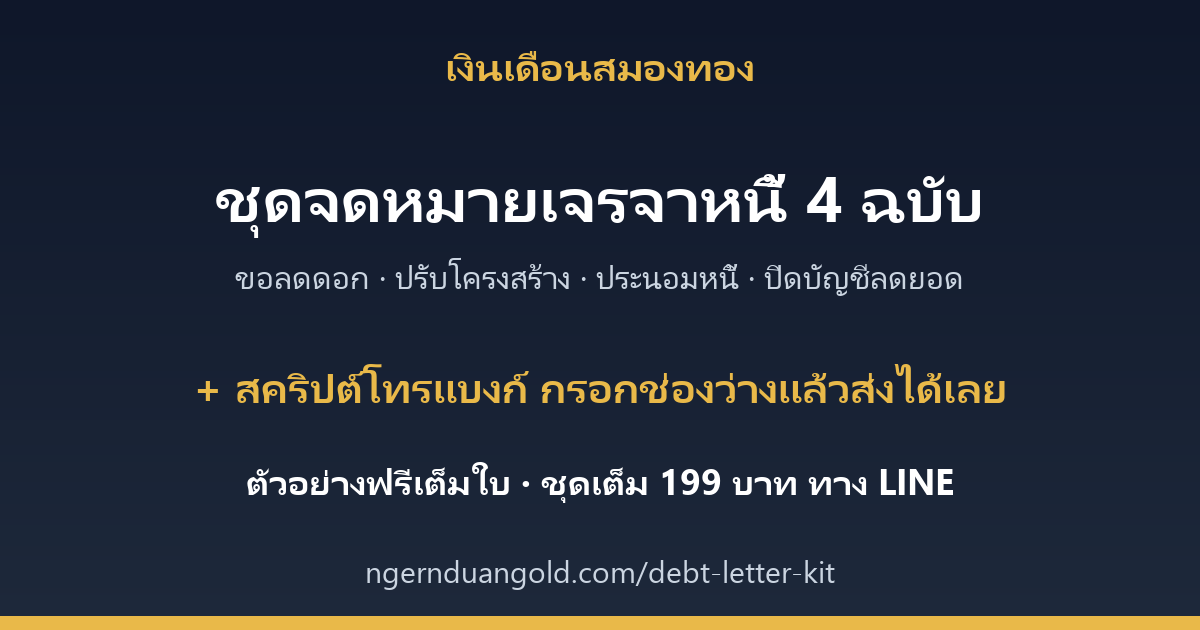
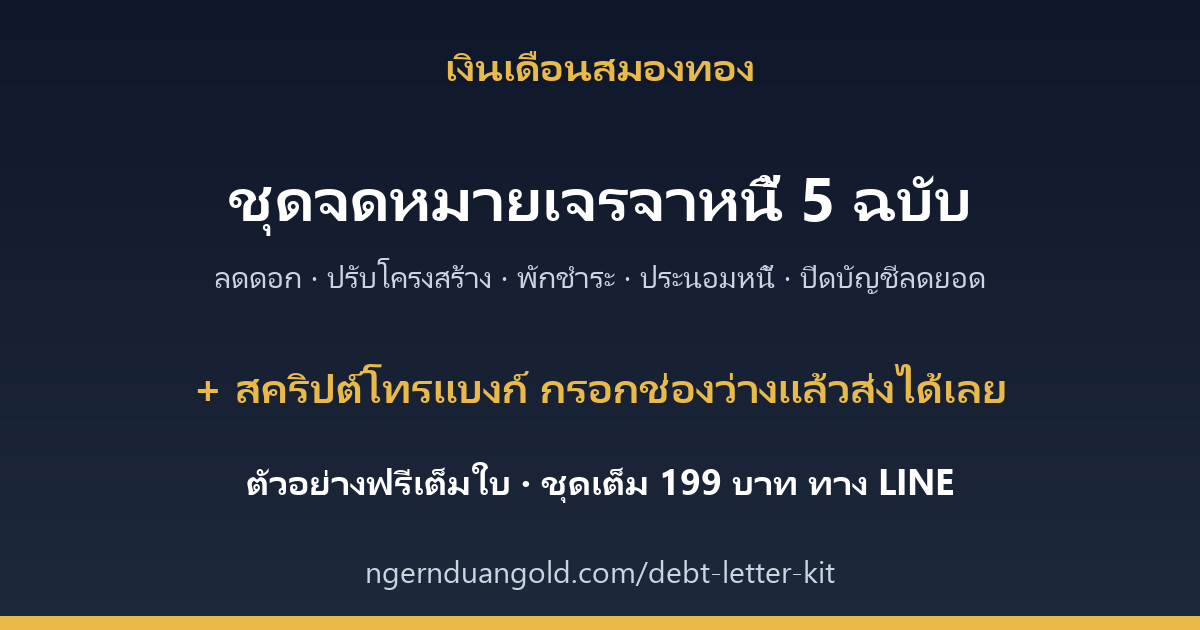
patch: /debt-letter-kit flip -> จดหมาย 5 ฉบับ + สคริปต์ (PDF 10 หน้า, เพิ่มใบพักชำระชั่วคราว) ทุก surface

Changed region(s): [[0.1542, 0.2714, 0.8325, 0.3619], [0.185, 0.4222, 0.8325, 0.4825]]

diff --git a/debt-letter-kit.html b/debt-letter-kit.html
@@ -3,8 +3,8 @@
 <head>
 <meta charset="UTF-8">
 <meta name="viewport" content="width=device-width, initial-scale=1.0">
-<title>ชุดจดหมายเจรจาหนี้ 4 ฉบับ + สคริปต์โทรแบงก์ — ขอลดดอก/ปรับโครงสร้าง/ประนอมหนี้ | เงินเดือนสมองทอง</title>
-<meta name="description" content="จดหมายพร้อมใช้ 4 ฉบับ + สคริปต์โทรแบงก์ กรอกช่องว่างแล้วส่งได้เลย ปรับตามกรณีคุณ — ตัวอย่างฟรี ขอชุดเต็มทาง LINE">
+<title>ชุดจดหมายเจรจาหนี้ 5 ฉบับ + สคริปต์โทรแบงก์ | เงินเดือนสมองทอง</title>
+<meta name="description" content="จดหมายพร้อมใช้ 5 ฉบับ (ลดดอก/ปรับโครงสร้าง/พักชำระ/ประนอมหนี้/ปิดบัญชีลดยอด) + สคริปต์โทรแบงก์ กรอกช่องว่างแล้วส่งได้เลย — ตัวอย่างฟรี ขอชุดเต็มทาง LINE">
 <style>
   :root{
     --gold:#E9B949; --gold-d:#C9A227; --navy:#0F172A; --navy2:#1E293B;
@@ -62,8 +62,8 @@
 <body>
 <header>
   <div class="brand"><a href="/">เงินเดือนสมองทอง</a></div>
-  <h1>จดหมายเจรจาหนี้ 4 ฉบับ + สคริปต์โทร ที่ธนาคารรับฟัง</h1>
-  <p>ขอลดดอก · ปรับโครงสร้าง · ประนอมหนี้ · ปิดบัญชีลดยอด + สคริปต์โทรแบงก์ — กรอกช่องว่างแล้วส่งได้เลย ปรับตามกรณีคุณ</p>
+  <h1>5 จดหมายเจรจาหนี้ + สคริปต์โทร ที่ธนาคารรับฟัง</h1>
+  <p>ขอลดดอก · ปรับโครงสร้าง · พักชำระชั่วคราว · ประนอมหนี้ · ปิดบัญชีลดยอด + สคริปต์โทรแบงก์ — กรอกช่องว่างแล้วส่งได้เลย ปรับตามกรณีคุณ</p>
   <div class="badges">
     <span>🤝 เป็นกลาง — ไม่ขายประกัน/สินเชื่อแฝง</span>
     <span>🏛 อ้างอิงช่องทางช่วยเหลือจริง (คลินิกแก้หนี้ ธปท.)</span>
@@ -86,13 +86,14 @@
   </div>
 
   <div class="card">
-    <h2>ในชุดมีอะไร (PDF 9 หน้า)</h2>
+    <h2>ในชุดมีอะไร (PDF 10 หน้า)</h2>
     <div class="items">
       <div class="item"><span class="ic">1</span><span><b>จดหมายขอลดดอกเบี้ย</b><small>สำหรับคนประวัติจ่ายดี อยากปิดเร็วขึ้น</small></span></div>
-      <div class="item"><span class="ic">2</span><span><b>จดหมายขอปรับโครงสร้างหนี้</b><small>เมื่อค่างวดเริ่มหนักเกินรายได้</small></span></div>
-      <div class="item"><span class="ic">3</span><span><b>จดหมายขอประนอมหนี้/ผ่อนผัน</b><small>เมื่อเริ่มค้างจ่าย ต้องการเสนอเงื่อนไขใหม่</small></span></div>
-      <div class="item"><span class="ic">4</span><span><b>จดหมายขอปิดบัญชีลดยอด (settlement)</b><small>มีเงินก้อนจำกัด อยากจบหนี้</small></span></div>
-      <div class="item"><span class="ic">5</span><span><b>สคริปต์โทรแบงก์</b><small>พูดตามได้ทีละบรรทัด + วิธีรับมือคำถามย้อน</small></span></div>
+      <div class="item"><span class="ic">2</span><span><b>จดหมายขอปรับโครงสร้างหนี้ (ยืดงวด/ลดค่างวด)</b><small>เมื่อค่างวดเริ่มหนักเกินรายได้</small></span></div>
+      <div class="item"><span class="ic">3</span><span><b>จดหมายขอพักชำระชั่วคราว (เหตุจำเป็น/สุดวิสัย)</b><small>รายได้สะดุดกะทันหัน — ขอเวลาหายใจแบบมีหลักฐาน</small></span></div>
+      <div class="item"><span class="ic">4</span><span><b>จดหมายขอประนอมหนี้/ผ่อนผัน (ค้าง/ใกล้ค้าง)</b><small>เมื่อเริ่มค้างจ่าย ต้องการเสนอเงื่อนไขใหม่</small></span></div>
+      <div class="item"><span class="ic">5</span><span><b>จดหมายขอปิดบัญชีลดยอด (settlement)</b><small>มีเงินก้อนจำกัด อยากจบหนี้</small></span></div>
+      <div class="item"><span class="ic">6</span><span><b>สคริปต์โทรแบงก์</b><small>พูดตามได้ทีละบรรทัด + วิธีรับมือคำถามย้อน</small></span></div>
       <div class="item"><span class="ic">+</span><span><b>เคล็ดลับต่อฉบับ · ตารางเลือกใช้ตามสถานะหนี้ · ช่องทางช่วยเหลือจริง</b><small>รวมคลินิกแก้หนี้ (ธปท./SAM) — ของฟรีที่ควรรู้ก่อนจ่ายเงินให้ใคร</small></span></div>
     </div>
   </div>
@@ -112,12 +113,12 @@
 
 ขอแสดงความนับถือ
 [ชื่อ-นามสกุล] · โทร [เบอร์] · วันที่ [.....]</div>
-    <div class="tip"><b>เคล็ดจากในชุด:</b> แนบเหตุผล "อยากปิดเร็วขึ้น" (เจ้าหนี้ชอบ) มากกว่า "ไม่มีจ่าย" · ส่งแล้วโทรตามผลใน 7–14 วัน · ⚠ ฉบับนี้สำหรับคนประวัติจ่ายดี — ถ้าเคยค้างจ่าย อย่าคัดประโยค "ชำระตรงเวลา" ให้ใช้ฉบับที่ 2/3 ในชุดแทน</div>
-    <p style="font-size:13.5px;color:var(--muted);margin:12px 0 0">นี่แค่ 1 ใน 4 — อีก 3 ฉบับ (ปรับโครงสร้าง / ประนอมหนี้ / ปิดบัญชีลดยอด) + สคริปต์โทรแบงก์ เหมาะกับเคสที่หนักขึ้นตามลำดับ</p>
+    <div class="tip"><b>เคล็ดจากในชุด:</b> แนบเหตุผล "อยากปิดเร็วขึ้น" (เจ้าหนี้ชอบ) มากกว่า "ไม่มีจ่าย" · ส่งแล้วโทรตามผลใน 7–14 วัน · ⚠ ฉบับนี้สำหรับคนประวัติจ่ายดี — ถ้าเคยค้างจ่าย อย่าคัดประโยค "ชำระตรงเวลา" ให้ใช้ฉบับที่ 2/4 ในชุดแทน</div>
+    <p style="font-size:13.5px;color:var(--muted);margin:12px 0 0">นี่แค่ 1 ใน 5 — อีก 4 ฉบับ (ปรับโครงสร้าง / พักชำระชั่วคราว / ประนอมหนี้ / ปิดบัญชีลดยอด) + สคริปต์โทรแบงก์ เหมาะกับเคสที่หนักขึ้นตามลำดับ</p>
   </div>
 
   <div class="buy">
-    <h2>ชุดเต็ม: จดหมาย 4 ฉบับ + สคริปต์โทรแบงก์ (PDF 9 หน้า)</h2>
+    <h2>ชุดเต็ม: จดหมาย 5 ฉบับ + สคริปต์โทรแบงก์ (PDF 10 หน้า)</h2>
     <div class="pr">199฿ <small>จ่ายครั้งเดียว</small></div>
     <p>สินค้าของเงินเดือนสมองทองเอง (ไม่ใช่ค่าธรรมเนียมของเจ้าหนี้/หน่วยงานใด) — สั่งทาง LINE โอนพร้อมเพย์ แล้วรับไฟล์ทันที</p>
     <a class="btn btn-line" href="https://line.me/R/ti/p/@804qodya" target="_blank" rel="noopener">💬 รับชุดเต็มทาง LINE @804qodya</a>

diff --git a/build_site.py b/build_site.py
@@ -63,8 +63,8 @@ _TOOL_PAGES = [  # standalone tool/landing pages (root file pristine; copy + hea
     ("workshop-hr", "Workshop การเงินสำหรับพนักงาน — สำหรับ HR และองค์กร",
      "เวิร์กช็อปปลดหนี้/เงินสำรอง/วางแผนเงินเดือนสำหรับพนักงาน On-site/Online ไม่ขายผลิตภัณฑ์ในห้อง ขอใบเสนอราคาฟรี",
      "og-workshop-hr.png"),
-    ("debt-letter-kit", "ชุดจดหมายเจรจาหนี้ 4 ฉบับ + สคริปต์โทรแบงก์ — ขอลดดอก/ปรับโครงสร้าง/ประนอมหนี้",
-     "จดหมายพร้อมใช้ 4 ฉบับ + สคริปต์โทรแบงก์ กรอกช่องว่างแล้วส่งได้เลย ปรับตามกรณีคุณ — ตัวอย่างฟรี ขอชุดเต็มทาง LINE",
+    ("debt-letter-kit", "ชุดจดหมายเจรจาหนี้ 5 ฉบับ + สคริปต์โทรแบงก์",
+     "จดหมายพร้อมใช้ 5 ฉบับ (ลดดอก/ปรับโครงสร้าง/พักชำระ/ประนอมหนี้/ปิดบัญชีลดยอด) + สคริปต์โทรแบงก์ — ตัวอย่างฟรี ขอชุดเต็มทาง LINE",
      "og-letter-kit.png"),
 ]
 for _tslug, _ttt, _ttd, _tog in _TOOL_PAGES:
@@ -395,7 +395,7 @@ def letter_cta(slug):
     return ('<div style="margin:14px 0;padding:11px 14px;background:#fbfaf5;border:1.5px solid #C9A227;'
             'border-radius:11px;text-align:center"><a href="/debt-letter-kit?utm_source=article&utm_medium=nextstep&utm_campaign=letter_kit" '
             'style="color:#6b5b2a;font-weight:700;text-decoration:none">✉ ไม่รู้จะพูดกับแบงก์ยังไง? '
-            'ชุดจดหมายเจรจาหนี้ 4 ฉบับ + สคริปต์โทร (ตัวอย่างฟรี) →</a></div>')
+            'ชุดจดหมายเจรจาหนี้ 5 ฉบับ + สคริปต์โทร (ตัวอย่างฟรี) →</a></div>')
 
 
 def cta_ls(page, text):
